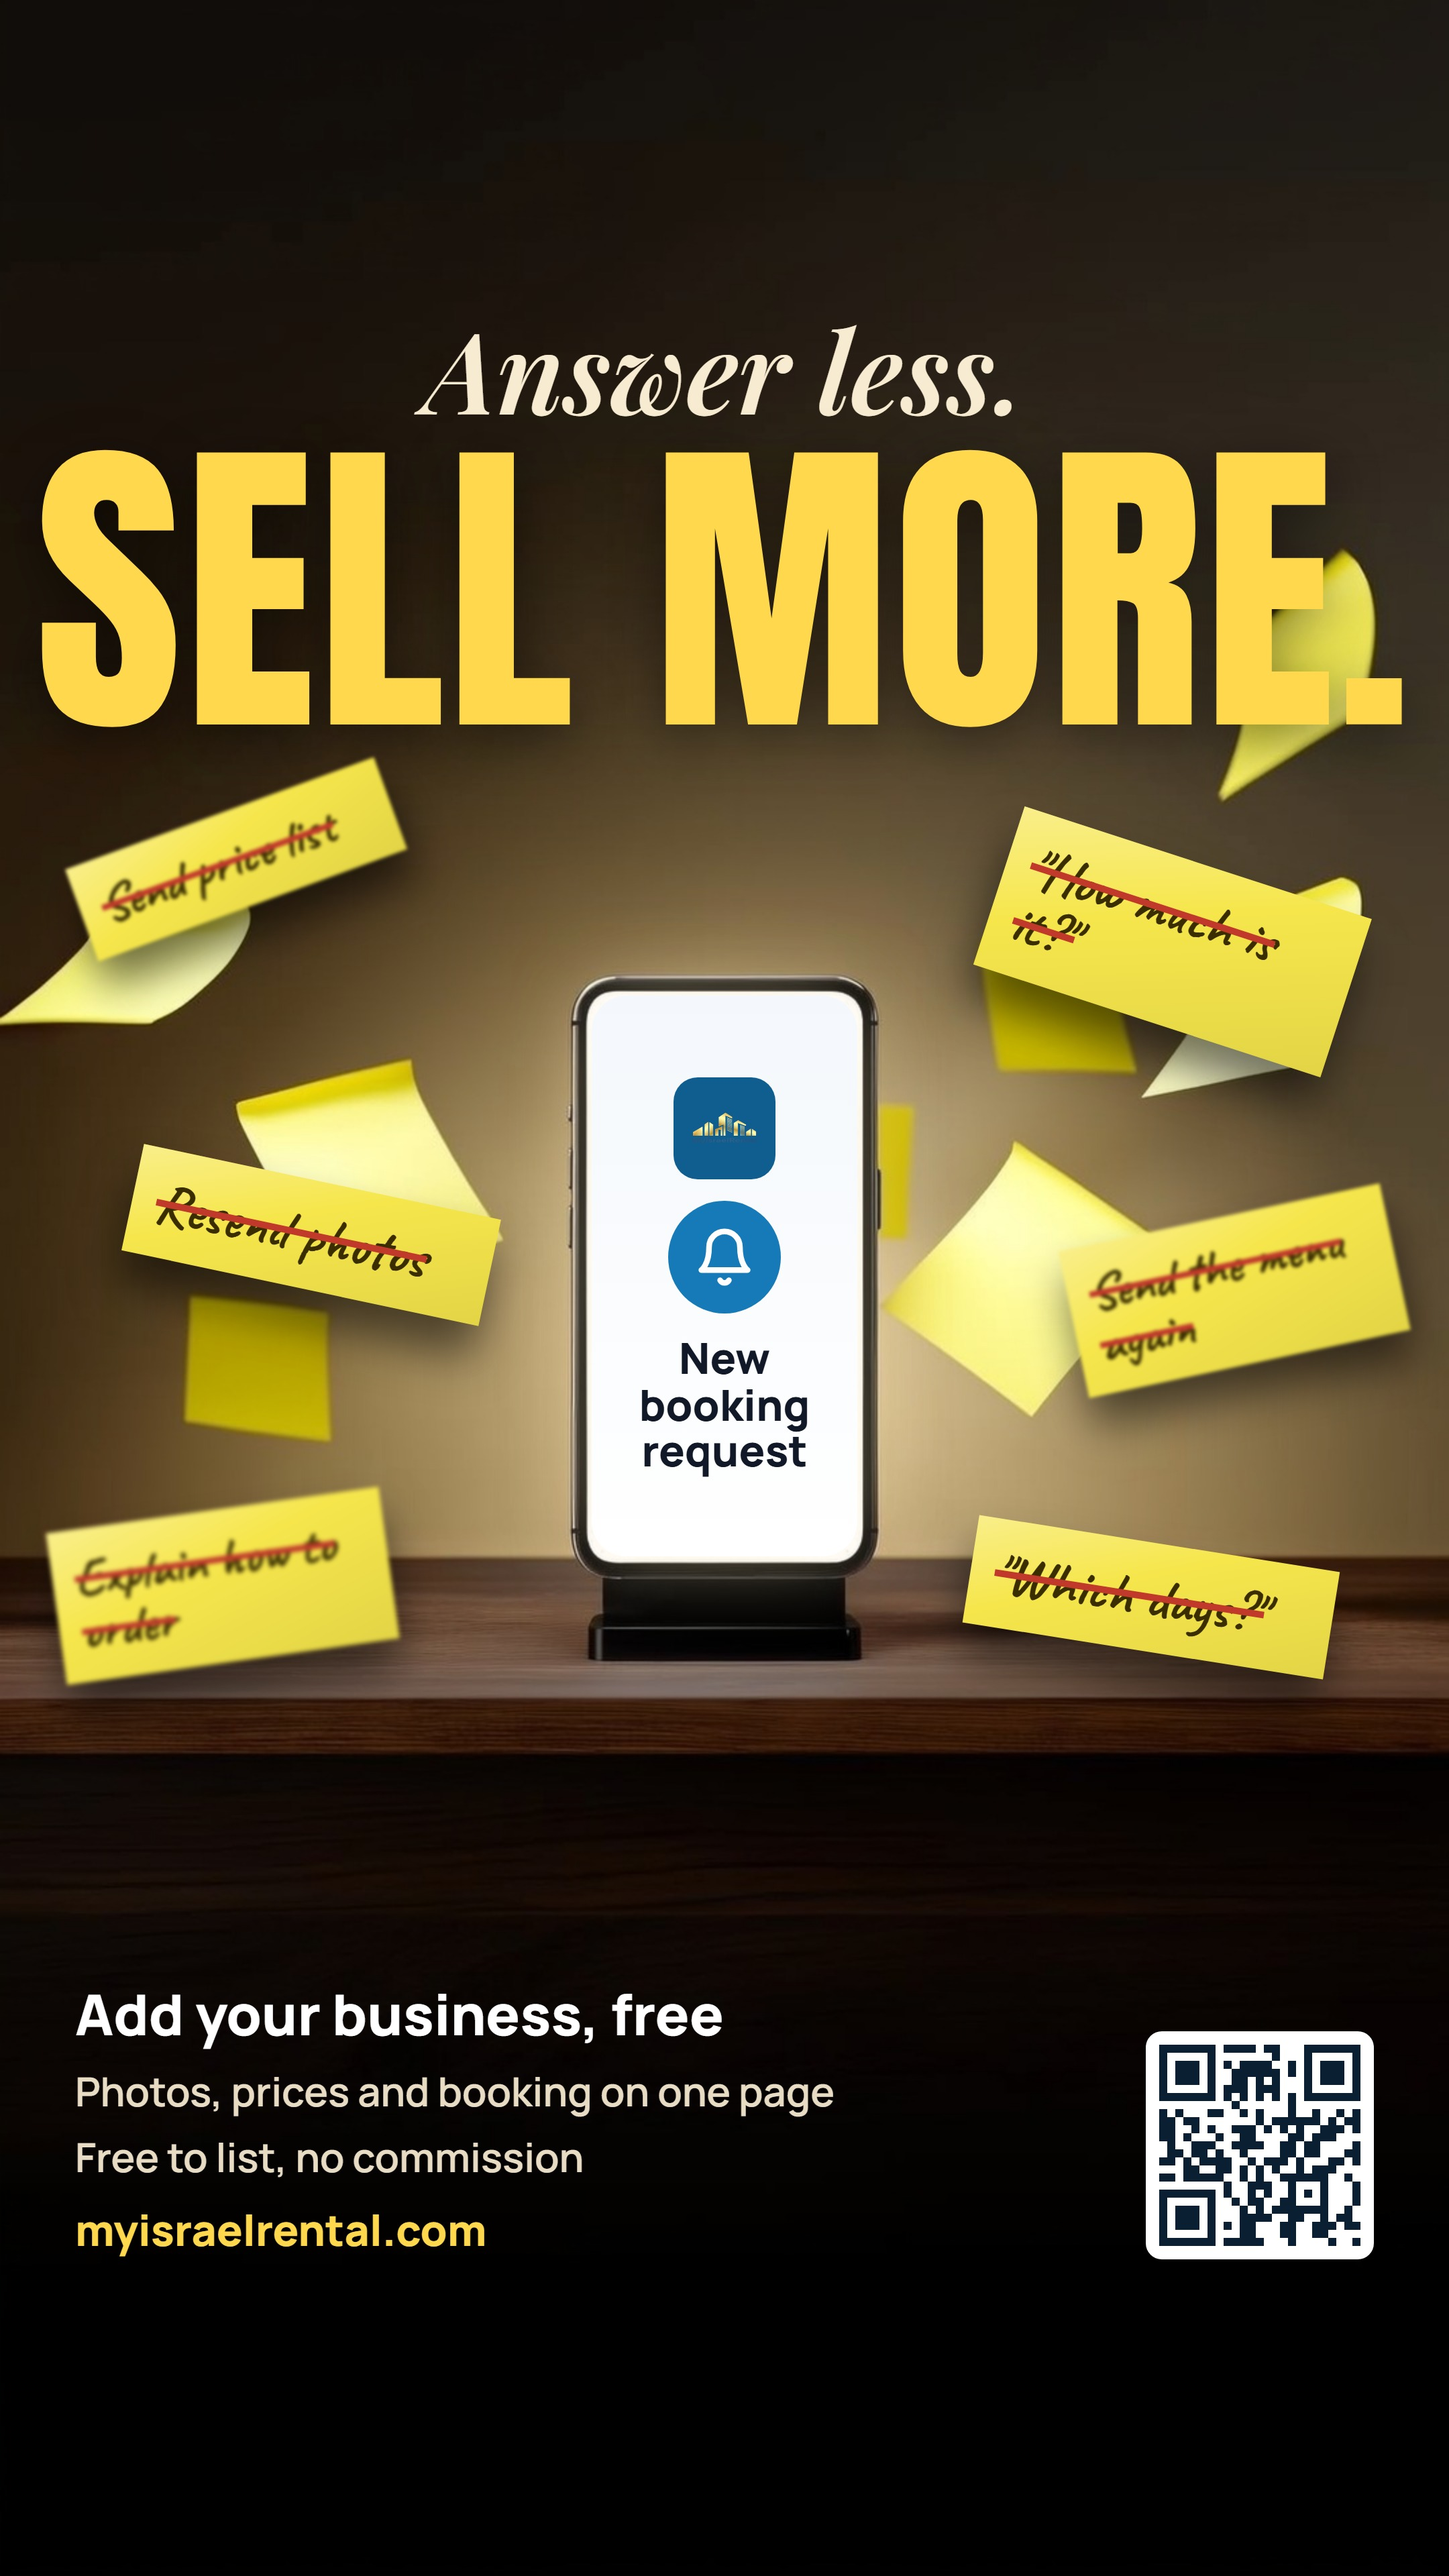
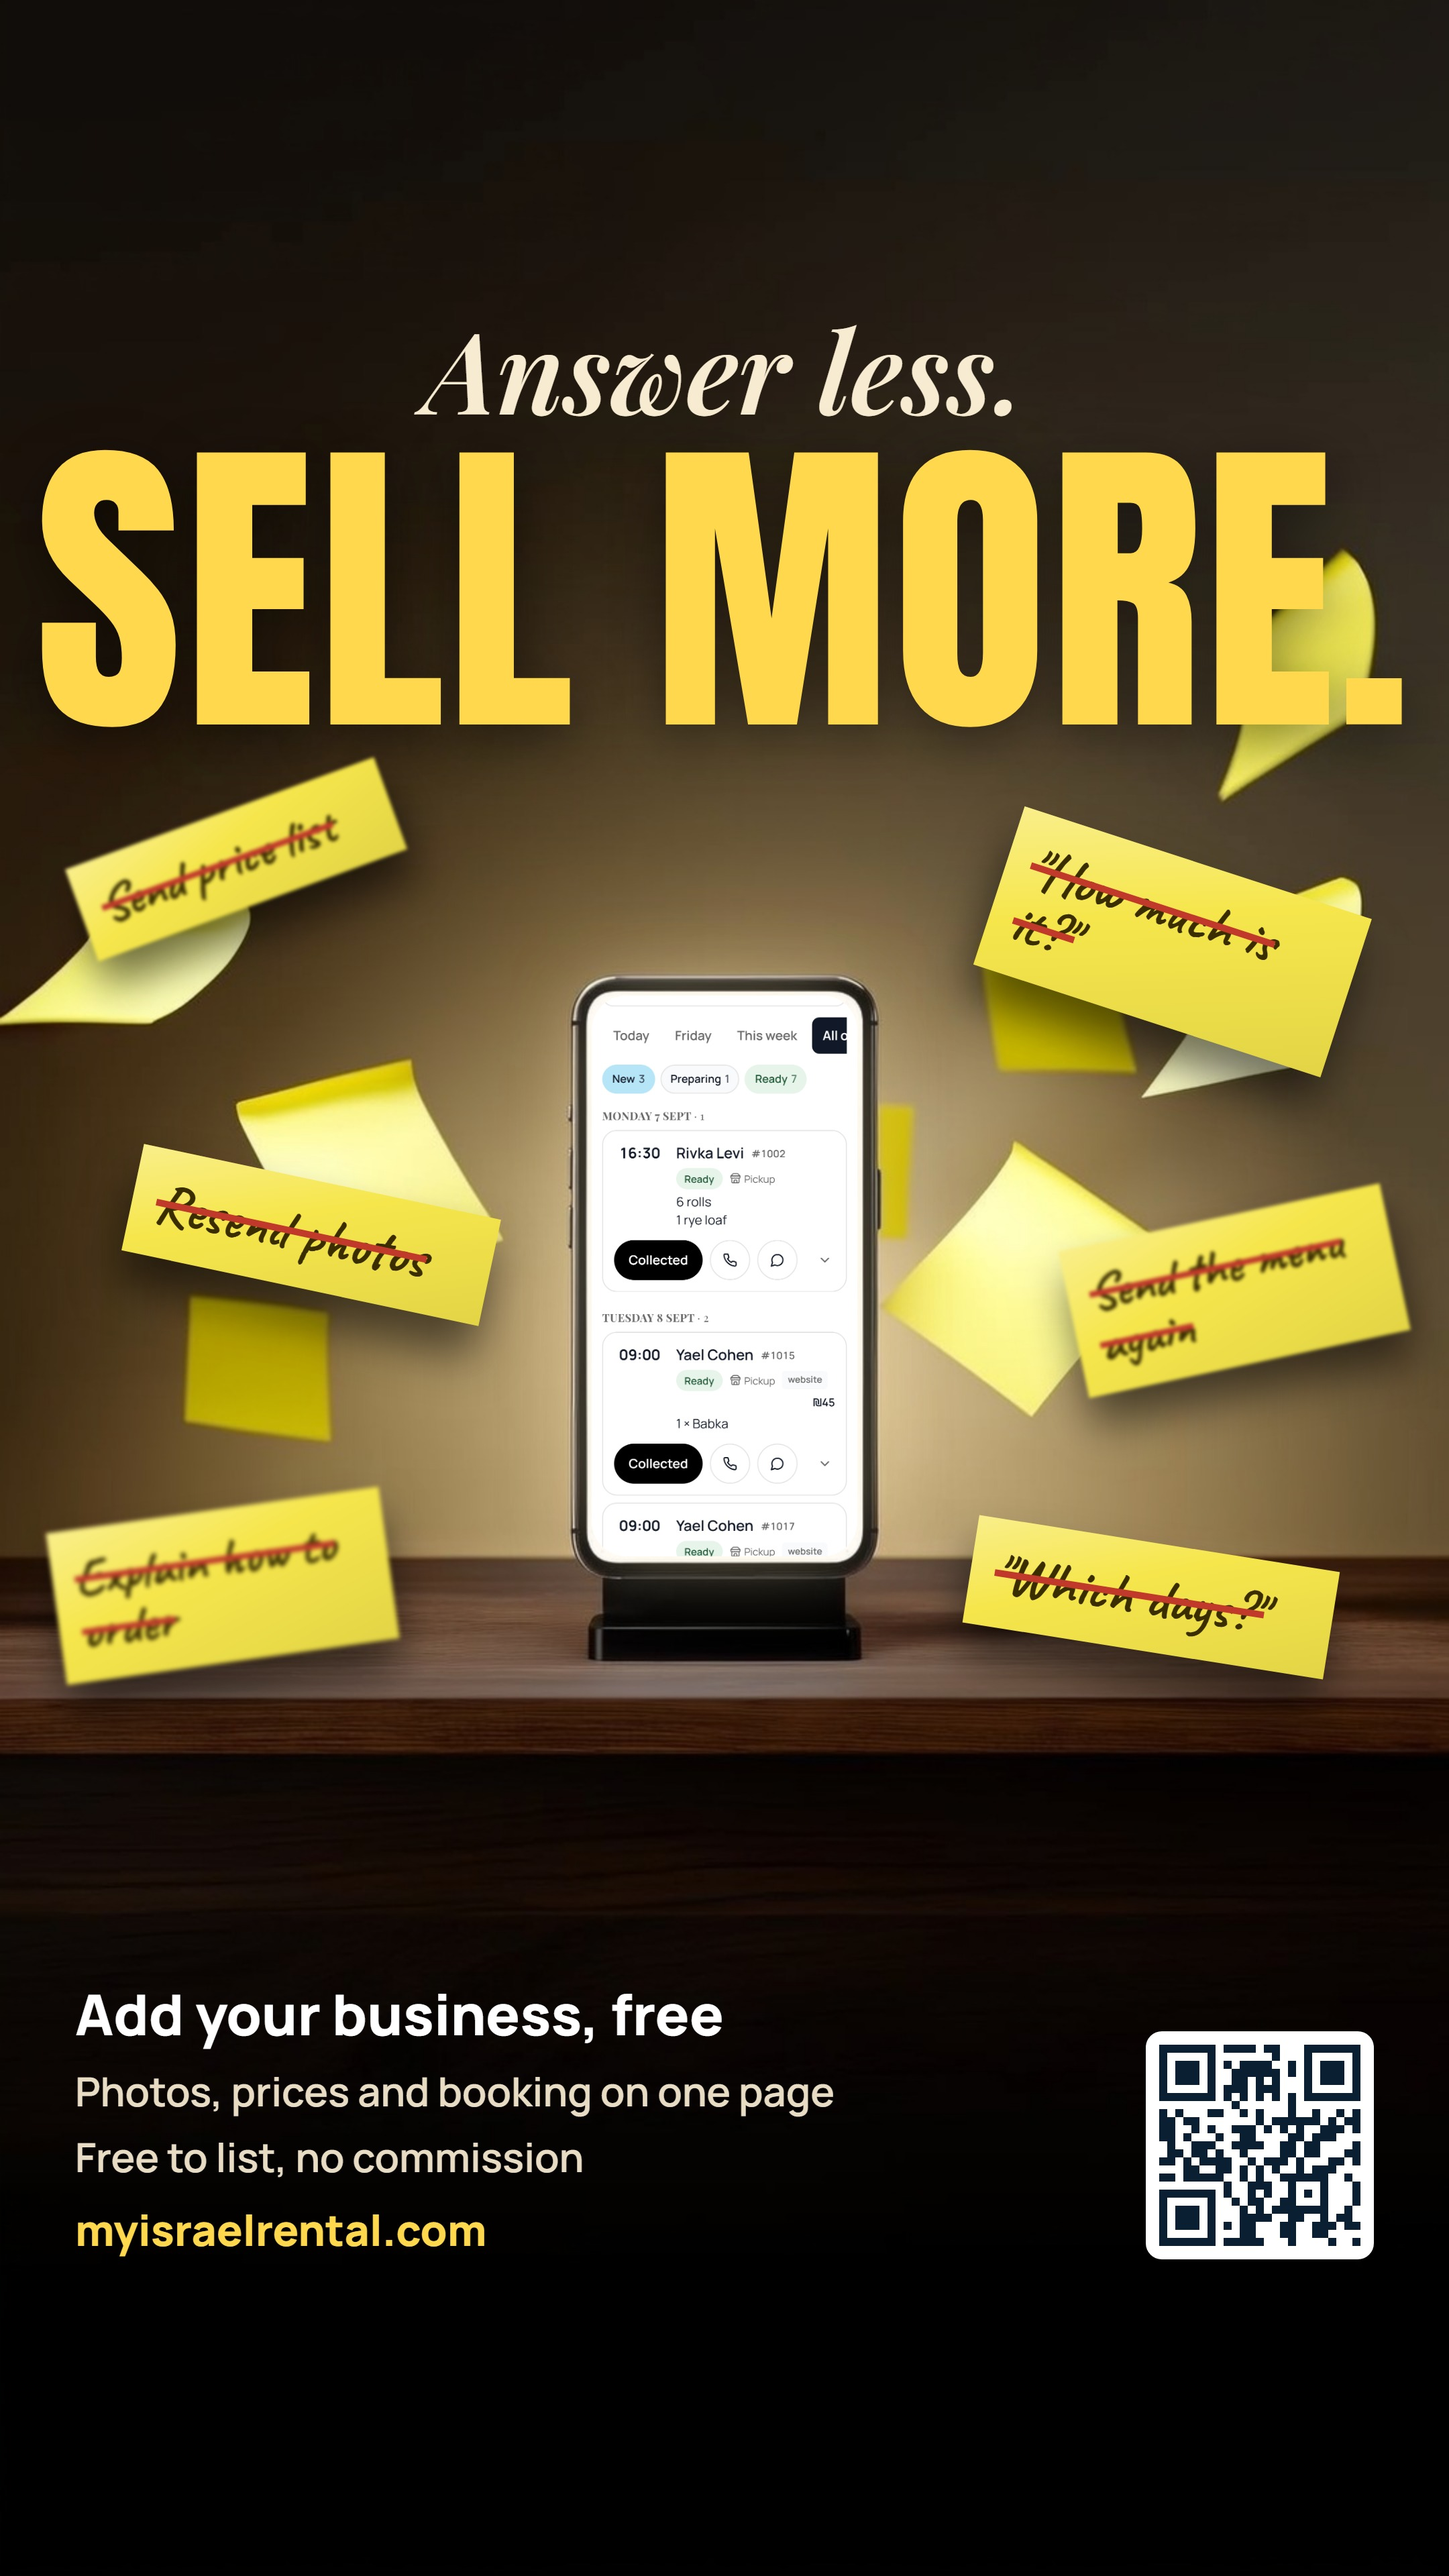
Ad rules A3.11 (layout sketch first) and A3.12 (real screens); both business ads show the real dashboard
Tzvi, 10 Nov 2026: 'add this to the ad builder rules as part of a blueprint so this is never skipped'. Told
only in words, the text-only model centred a phone it was told to put at the side and drew eight notes for
thirty. Every generated ad picture now starts from a layout drawn with scripts/ad-layout-sketch.py (boxes where
things go, the headline and foot kept empty, refused if a box covers them), given to the reference-image model.
A3.11 sits in stage 3, so the ad gate refuses a paid picture until the layout picture exists, and --done checks
the gen script uses it.

A3.12, 'professional is in the details': a screen in an ad shows our real website or dashboard from the local
test account, never an icon mock. The burst and before-and-after phones now show the real orders dashboard.

Changed region(s): [[0.4032, 0.4062, 0.5583, 0.625], [0.5583, 0.375, 0.5894, 0.4062]]

diff --git a/scripts/ad-layout-sketch.py b/scripts/ad-layout-sketch.py
@@ -1,0 +1,60 @@
+"""Draw the rough layout a generated ad picture must follow (ad rule A3.11, Tzvi 10 Nov 2026).
+
+    backend/.venv/Scripts/python scripts/ad-layout-sketch.py <layout.json> <layout.png>
+
+Why: told in words where things go ("the phone at 27 percent from the left", "notes between 24 and 70 percent of
+the height", "about thirty notes"), the text-only model centred the phone and drew eight notes. Image models copy
+the arrangement of a picture they are given far better than they follow numbers. So the layout is drawn first as
+flat boxes and given to the reference-image model (marketing-studio/image/sunburst) as an image, with the words
+"photograph this layout for real"; the owner's real product photo, when there is one, goes in as another image.
+Exact parts (a phone's screen, a label) are still laid on afterwards in code.
+
+layout.json:
+    {"shape": "story" | "feed" | "square",
+     "ground": "#2b2b2b",                                 optional: the main tone of the scene
+     "boxes": [{"what": "phone", "x": 0.4, "y": 0.34, "w": 0.2, "h": 0.32, "colour": "#9aa0a6", "angle": 0}],
+     "keep_empty": [{"what": "headline", "x": 0.05, "y": 0.11, "w": 0.9, "h": 0.17},
+                    {"what": "foot", "x": 0.04, "y": 0.76, "w": 0.92, "h": 0.12, "over": ["desk"]}]}
+x, y, w, h are shares of the width and height. Boxes are drawn in order, later ones in front. keep_empty areas are
+left undrawn and checked: no box may cover one, except grounds listed in its "over" (the foot on the desk)."""
+import json
+import sys
+from pathlib import Path
+
+from PIL import Image, ImageDraw
+
+SIZES = {"story": (1080, 1920), "feed": (1080, 1350), "square": (1080, 1080)}
+
+
+def main(spec_path: str, out_path: str) -> None:
+    spec = json.loads(Path(spec_path).read_text(encoding="utf8"))
+    W, H = SIZES[spec.get("shape", "story")]
+    im = Image.new("RGB", (W, H), spec.get("ground", "#2b2b2b"))
+    for b in spec.get("boxes", []):
+        w, h = round(b["w"] * W), round(b["h"] * H)
+        tile = Image.new("RGBA", (w, h), b.get("colour", "#9aa0a6"))
+        ImageDraw.Draw(tile).rectangle([0, 0, w - 1, h - 1], outline=(0, 0, 0, 90), width=3)
+        if b.get("angle"):
+            tile = tile.rotate(b["angle"], expand=True, resample=Image.BICUBIC)
+        cx, cy = round((b["x"] + b["w"] / 2) * W), round((b["y"] + b["h"] / 2) * H)
+        im.paste(tile, (cx - tile.width // 2, cy - tile.height // 2), tile)
+    # Areas kept for the words are not drawn (a painted patch is copied by the model): no box may cover them.
+    bad = []
+    for e in spec.get("keep_empty", []):
+        for bx in spec.get("boxes", []):
+            ox = min(e["x"] + e["w"], bx["x"] + bx["w"]) - max(e["x"], bx["x"])
+            oy = min(e["y"] + e["h"], bx["y"] + bx["h"]) - max(e["y"], bx["y"])
+            if ox > 0.01 and oy > 0.01 and bx.get("what") not in e.get("over", []):
+                bad.append(f'{bx.get("what", "box")} covers the {e.get("what", "empty area")}')
+    if bad:
+        raise SystemExit("the layout puts things where the words go: " + "; ".join(bad) +
+                         ' (list a ground such as "desk" in that area\'s "over" if the words sit on it on purpose)')
+    Path(out_path).parent.mkdir(parents=True, exist_ok=True)
+    im.save(out_path)
+    print(f"wrote {out_path} ({W}x{H}, {len(spec.get('boxes', []))} boxes, {len(spec.get('keep_empty', []))} kept empty)")
+
+
+if __name__ == "__main__":
+    if len(sys.argv) != 3:
+        raise SystemExit(__doc__)
+    main(*sys.argv[1:])

diff --git a/docs/ad-rules-checklist.md b/docs/ad-rules-checklist.md
@@ -59,6 +59,8 @@ A3.7 | No words drawn into a generated picture. The picture is one layer, the wo
 A3.8 | Another brand's idea and composition only, never its marks, wording or product. | 9g.2 | decide
 A3.9 | The picture fills the ad edge to edge as it was made: made in the ad's own shape or the nearest shorter one the model takes, laid at full width with scripts/ad-fit-picture.py, which carries on only the plain wall above and table below in the picture's own colours and refuses to shrink. Never shrunk with filled or pale sides. The answer names ad-fit-picture, or n/a when no picture is generated. | Tzvi 10 Nov | decide since:2026-11-10
 A3.10 | A product shot is styled like a pro shoot: the product big and sharp on a rich surface (wood, stone, linen, never a bare white table), in warm shaped light, with two or three things from the business's own world at the sides (what it is served with, made from or sold beside). Props never in front of the product, never presented as the product, no cooked food passed off as theirs. Name each prop and why it belongs. | Tzvi 10 Nov | decide since:2026-11-10
+A3.11 | Layout first, never numbers alone: before any generated picture, its layout is drawn with scripts/ad-layout-sketch.py (boxes where the product, props and moment go; the headline and foot areas kept empty) and given to the reference-image model (marketing-studio/image/sunburst) as an image, with "photograph this layout for real" and the real product photo when there is one. Told only in words, the model centred the phone and drew eight notes for thirty. Exact parts (a screen, a label) are laid on afterwards in code. The answer names the layout picture; the ad's gen script must use it. n/a only when nothing is generated. | Tzvi 10 Nov | decide since:2026-11-10
+A3.12 | A screen in an ad shows the real thing: our website or dashboard captured at the screen's own shape from the local test account (its sample data, never a real business or customer, no test-looking names), not an icon or a made-up mock. Professional is in the details. Name the page captured. | Tzvi 10 Nov | decide since:2026-11-10
 
 ## 4. Body and proof
 

diff --git a/docs/static-ad-rules.md b/docs/static-ad-rules.md
@@ -674,3 +674,19 @@ it: the product or service named, or unmistakable in the picture, plus what it d
 Just add water."). Wordplay is welcome on top of that, never instead of it. Step A2.10 in docs/ad-rules-checklist.md:
 the blueprint answer writes "A stranger reads:" and what that stranger would take from the headline alone, and the
 blueprint refuses an answer without it.
+
+## Layout first, and real screens (Tzvi, 10 Nov 2026)
+
+"Why didnt it listen to you?" Told in words where things go, the text-only model centred the phone it was told to
+put at the side and drew eight notes for the thirty asked. Image models copy the arrangement of a picture they are
+given far better than they follow numbers; it is why the cholent tubs came out right, built on the owner's photo.
+So every generated picture starts from a rough layout drawn with scripts/ad-layout-sketch.py: flat boxes where the
+product, props and moment go, the headline and foot left empty (the tool refuses a box over them). That picture
+goes to the reference-image model with "photograph this layout for real", beside the real product photo when there
+is one. Exact parts, a phone screen or a label, are still laid on afterwards in code. Step A3.11: the blueprint
+answer names the layout picture, which must exist before stage 3 counts as answered, so no paid picture can be made
+without it, and the ad's gen script must use it.
+
+"Making it look professional is in the details, like if the phone showed our website in the dashboard." A screen in
+an ad shows the real product, captured at the screen's own shape from the local test account, its sample data only,
+never a real business or customer. Step A3.12.
